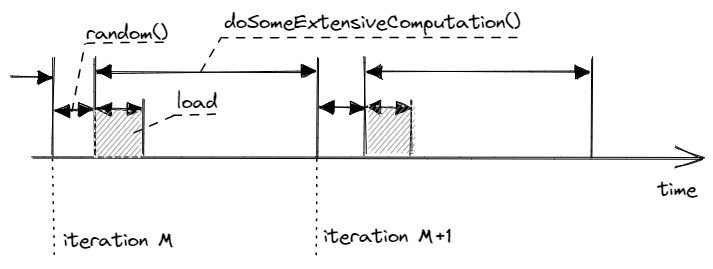
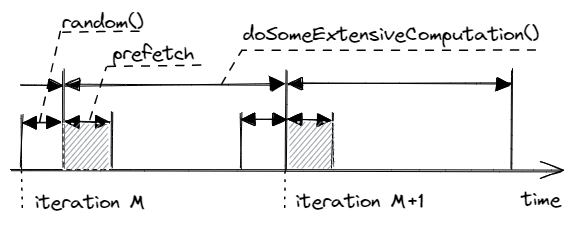
[Chapter 8] Cosmetic fixes in memory prefetching

diff --git a/chapters/8-Optimizing-Memory-Accesses/8-6 Memory Prefetching.md b/chapters/8-Optimizing-Memory-Accesses/8-6 Memory Prefetching.md
@@ -4,13 +4,15 @@ typora-root-url: ..\..\img
 
 ## Explicit Memory Prefetching {#sec:memPrefetch}
 
-By now, you should know that memory accesses that are not resolved from caches are often very expensive. Modern CPUs try very hard to lower the penalty of cache misses if the prefetch request is issued sufficiently ahead of time. If the requested memory location is not in the cache, we will suffer the cache miss anyway as we have to go to the DRAM and fetch the data anyway. But if manage to bring that memory location in caches by the time the data is demanded by the program, then we effectively make the penalty of a cache miss to be zero.
+By now, you should know that memory accesses that are not resolved from caches are often very expensive. Modern CPUs try very hard to lower the penalty of cache misses by predicting which memory locations a program will access in the future and prefetch them ahead of time. If the requested memory location is not in the cache at the time a program demands it, we will suffer the cache miss penalty as we have to go to the DRAM and fetch the data anyway. But if we manage to bring that memory location in caches in time or if the request was predicted and data is underway, then the penalty of a cache miss will be much lower.
 
-Modern CPUs have two mechanisms for solving that problem: hardware prefetching and OOO execution. HW prefetchers help to hide the memory access latency by initiating prefetching requests on repetitive memory access patterns. While OOO engine looks N instructions into the future and issues loads early to allow smooth execution of future instructions that will demand this data.
+Modern CPUs have two mechanisms for solving that problem: hardware prefetching and OOO execution. HW prefetchers help to hide the memory access latency by initiating prefetching requests on repetitive memory access patterns. While OOO engine looks N instructions into the future and issues loads early to enable smooth execution of future instructions that will demand this data.
 
 HW prefetchers fail when data accesses patterns are too complicated to predict. And there is nothing SW developers can do about it as we cannot control the behavior of this unit. On the other hand, OOO engine does not try to predict memory locations that will be needed in the future as HW prefetching does. So, the only measure of success for it is how much latency it was able to hide by scheduling the load in advance.
 
 Consider a small snippet of code in [@lst:MemPrefetch1], where `arr` is an array of one million integers. The index `idx`, which is assigned to a random value, is immediately used to access a location in `arr`, which almost certainly misses in caches as it is random. It is impossible for a HW prefetcher to predict as every time the load goes to a completely new place in memory. The interval from the time the address of a memory location is known (returned from the function `random_distribution`) until the value of that memory location is demanded (call to `doSomeExtensiveComputation`) is called *prefetching window*. In this example, the OOO engine doesn't have the opportunity to issue the load early since the prefetching window is very small. This leads to the latency of the memory access `arr[idx]` to stand on a critical path while executing the loop as shown in Figure @fig:SWmemprefetch1. It's visible that the program waits for the value to come back (hatched fill rectangle) without making forward progress.
+
+You're probably thinking: "but the next iteration of the loop should start executing speculatively in parallel". That's true, and indeed, it is reflected in Figure @fig:SWmemprefetch1. The `doSomeExtensiveComputation` function requires a lot of work, and when execution gets closer to the finish of the first iteration, a CPU speculatively starts executing instruction from the second iteration. It creates a positive overlap in the execution between iterations. In fact, we presented an optimistic scenario where a processor was able to generate the next random number and issued a load in parallel with the previous iteration of the loop. However, a CPU wasn't able to fully hide the latency of the load, because it CPU cannot look that far ahead of current execution to issue the load early enough. Maybe future processors will have more powerfull OOO engines, but for now, there are cases where a programmer's intervention is needed.
 
 Listing: Random number feeds a subsequent load.
 
@@ -22,11 +24,9 @@ for (int i = 0; i < N; ++i) {
 }
 ~~~~~~~~~~~~~~~~~~~~~~~~~~~~~~~~~~~~~~~~~~~~~~~~~
 
-![Execution timeline that shows the load latency standing on a critical path.](../../img/memory-access-opts/SWmemprefetch1.png){#fig:SWmemprefetch1 width=90%}
+![Execution timeline that shows the load latency standing on a critical path.](../../img/memory-access-opts/SWmemprefetch1.png){#fig:SWmemprefetch1 width=80%}
 
-There is another important observation here. When a CPU gets close to finish running the first iteration, it speculatively starts executing instruction from the second iteration. It creates a positive overlap in the execution between iterations. However, even in modern processors, there are not enough OOO capabilities to fully overlap the latency of a cache miss with executing `doSomeExtensiveComputation` from the iteration1. In other words, in our case a CPU cannot look that far ahead of current execution to issue the load early enough.
-
-Luckily, it's not a dead end as there is a way to speed up this code. To hide the latency of a cache miss, we need to overlap it with execution of `doSomeExtensiveComputation`. We can achieve it if we pipeline generation of random numbers and start prefetching the memory location for the next iteration as shown in [@lst:MemPrefetch2]. Notice the usage of [`__builtin_prefetch`](https://gcc.gnu.org/onlinedocs/gcc/Other-Builtins.html),[^4] a special hint that developers can use to explicitly request a CPU to prefetch a certain memory location. Graphical illustration of this transformation is illustrated in Figure @fig:SWmemprefetch2.
+Luckily, it's not a dead end as there is a way to speed up this code by fully overlapping the load with execution of `doSomeExtensiveComputation`, which will hide the latency of a cache miss. We can achieve it with techniques called *software pipelining* and *explicit memory prefetching*. Implementation of this idea is shown in [@lst:MemPrefetch2]. We pipeline generation of random numbers and start prefetching memory location for the next iteration in parallel with `doSomeExtensiveComputation`.
 
 Listing: Utilizing Exlicit Software Memory Prefetching hints.
 
@@ -41,17 +41,19 @@ for (int i = 0; i < N; ++i) {
 }
 ~~~~~~~~~~~~~~~~~~~~~~~~~~~~~~~~~~~~~~~~~~~~~~~~~
 
-![Hiding the cache miss latency by overlapping it with other execution.](../../img/memory-access-opts/SWmemprefetch2.png){#fig:SWmemprefetch2 width=90%}
+Graphical illustration of this transformation is illustrated in Figure @fig:SWmemprefetch2. We utilized software pipelining to generate random number for the next iteration. In other words, on iteration `M`, we produce a random number that will be consumed on iteration `M+1`. This enables us to issue the memory request early since we already know the next index in the array. This transformation makes out prefetching window much larger, and fully hides the latency of a cache miss. On the iteration `M+1`, the actual load has a very high chance to hit caches, because it was prefetched on iteration `M`.
 
-Another option to utilize explicit SW prefetching on x86 platforms is to use compiler intrinsics `_mm_prefetch` intrinsic. See Intel Intrinsics Guide for more details. In any case, compiler will compile it down to machine instruction: `PREFETCH` for x86 and `pld` for ARM. For some platforms compiler can skip inserting an instruction, so it is a good idea to check the generated machine code.
+![Hiding the cache miss latency by overlapping it with other execution.](../../img/memory-access-opts/SWmemprefetch2.png){#fig:SWmemprefetch2 width=80%}
+
+Notice the usage of [`__builtin_prefetch`](https://gcc.gnu.org/onlinedocs/gcc/Other-Builtins.html),[^4] a special hint that developers can use to explicitly request a CPU to prefetch a certain memory location. Another option to to use compiler intrinsics. For example, on x86 platforms ther is `_mm_prefetch` intrinsic, see Intel Intrinsics Guide for more details. In any case, compiler will generate `PREFETCH` instruction for x86 and `pld` instruction for ARM. For some platforms compiler can skip inserting an instruction, so it is a good idea to check the generated machine code.
 
 There are situations when SW memory prefetching is not possible. For example, when traversing a linked list, prefetching window is tiny and it is not possible to hide the latency of pointer chaising.
 
-In [@lst:MemPrefetch2] we saw an example of prefetching for the next iteration, but also you may frequently encounter a need to prefetch for 2, 4, 8, and sometimes even more iterations. The code in [@lst:MemPrefetch3] is one of those cases, when it could be beneficial. If the graph is very sparse and has a lot of verticies, it is very likely that accesses to `this->out_neighbors` and `this->in_neighbors` vectors will miss in caches a lot.
+In [@lst:MemPrefetch2] we saw an example of prefetching for the next iteration, but also you may frequently encounter a need to prefetch for 2, 4, 8, and sometimes even more iterations. The code in [@lst:MemPrefetch3] is one of those cases, when it could be beneficial. It presents a typical code for populating a graph with edges. If the graph is very sparse and has a lot of verticies, it is very likely that accesses to `this->out_neighbors` and `this->in_neighbors` vectors will miss in caches a lot. This happens because every edge is likely to connect new verticies that are not currently in caches.
 
 This code is different from the previous example as there are no extensive computations on every iteration, so the penalty of cache misses likely dominates the latency of each iteration. But we can leverage the fact that we know all the elements that will be accessed in the future. The elements of vector `edges` are accessed sequentially and thus are likely to be timely brought to the L1 cache by the HW prefetcher. Our goal here is to overlap the latency of a cache miss with executing enough iterations to completely hide it.
 
-As a general rule, for prefetch hints to be effective, they must be inserted well ahead of time so that by the time the loaded value will be used in other calculations, it will be already in the cache. However, it also shouldn't be inserted too early since it may pollute the cache with the data that is not used for a long time. Notice, in [@lst:MemPrefetch3], `lookAhead` is a template parameter, which allows to try different values and see which gives the best performance. More advanced users can try to estimate the prefetching window using the method described in [@sec:timed_lbr], example of using such method can be found on easyperf blog. [^5]
+As a general rule, for a prefetch hint to be effective, it must be inserted well ahead of time so that by the time the loaded value will be used in other calculations, it will be already in the cache. However, it also shouldn't be inserted too early since it may pollute the cache with the data that is not used for a long time. Notice, in [@lst:MemPrefetch3], `lookAhead` is a template parameter, which allows to try different values and see which gives the best performance. More advanced users can try to estimate the prefetching window using the method described in [@sec:timed_lbr], example of using such method can be found on easyperf blog. [^5]
 
 Listing: Example of a SW prefetching for the next 8 iterations.
 
@@ -74,7 +76,7 @@ void Graph::update(const std::vector<Edge>& edges) {
 }
 ~~~~~~~~~~~~~~~~~~~~~~~~~~~~~~~~~~~~~~~~~~~~~~~~~
 
-SW memory prefetching is most frequently used in the loops, but also one can insert those hints into the parent function, again, all depends on the available prefetching window.
+Explicit memory prefetching is most frequently used in loops, but also one can insert those hints into the parent function, again, all depends on the available prefetching window.
 
 This technique is a powerful weapon, however, it should be used with extreme care as it is not easy to get it right. First of all, explicit memory prefetching is not portable, meaning that if it gives performance gains on one platform, it doesn't guarantee similar speedups on another platform. It is very implemetation-specific and platforms are not required to honor those hints. In such a case it will likely degrade performance. My recomendation would be to verify that the impact is positive with all available tools. Not only check the performance numbers, but also make sure that the number of cache misses (L3 in particular) went down. Once the change is committed into the code base, monitor performance on all the platforms that you run your application on, as it could be very sensitive to changes in the surrounding code. Consider dropping the idea if the benefits do not overweight the potential maintanance burden.
 
